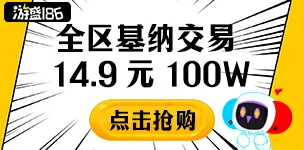
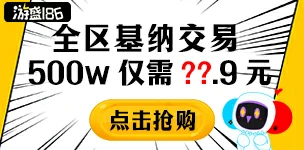
adv: update

diff --git a/src/components/SideBar/RightSidebar.tsx b/src/components/SideBar/RightSidebar.tsx
@@ -73,7 +73,7 @@ const RightSidebar: React.FC = () => {
       {import.meta.env.VITE_REGION === "CHINA" && (
         <>
           <BottomSidebarBanner
-            href="https://www.yousheng186.com/goods/APW130GFLN"
+            href="https://186.yousheng186.com/?promotionCode=HDDT"
             href2="https://qm.qq.com/q/YGRfrMFvqw"
             imageUrl={getStaticUrl("images/YouSheng.webp")}
             imageUrl2={getStaticUrl("images/PangXieRight.webp")}